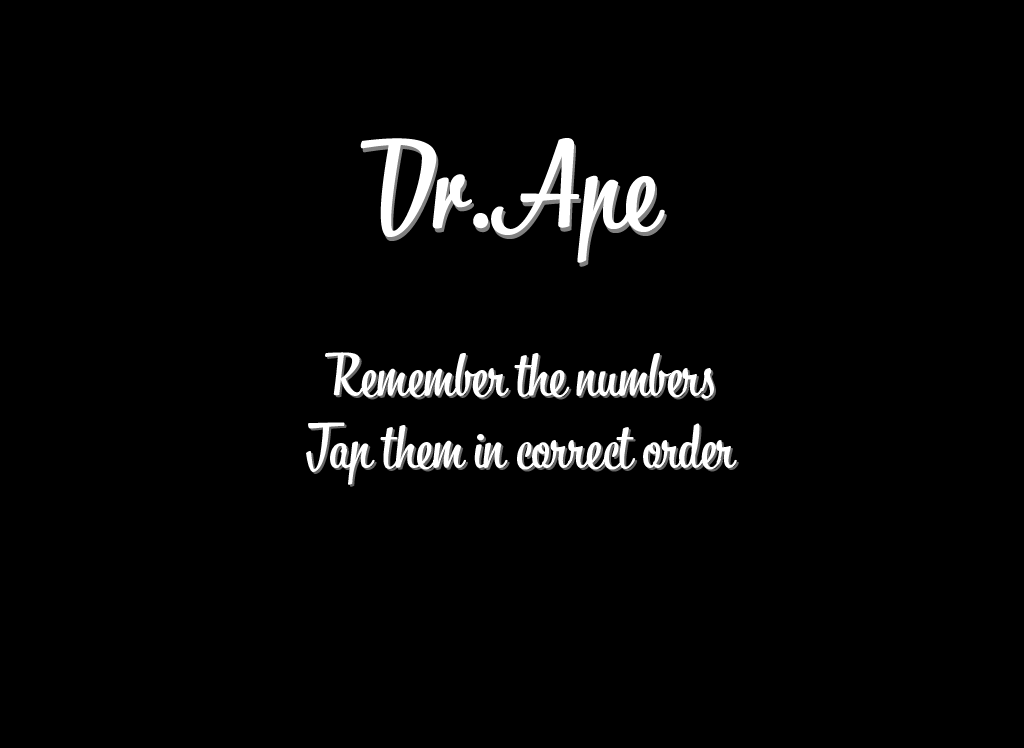
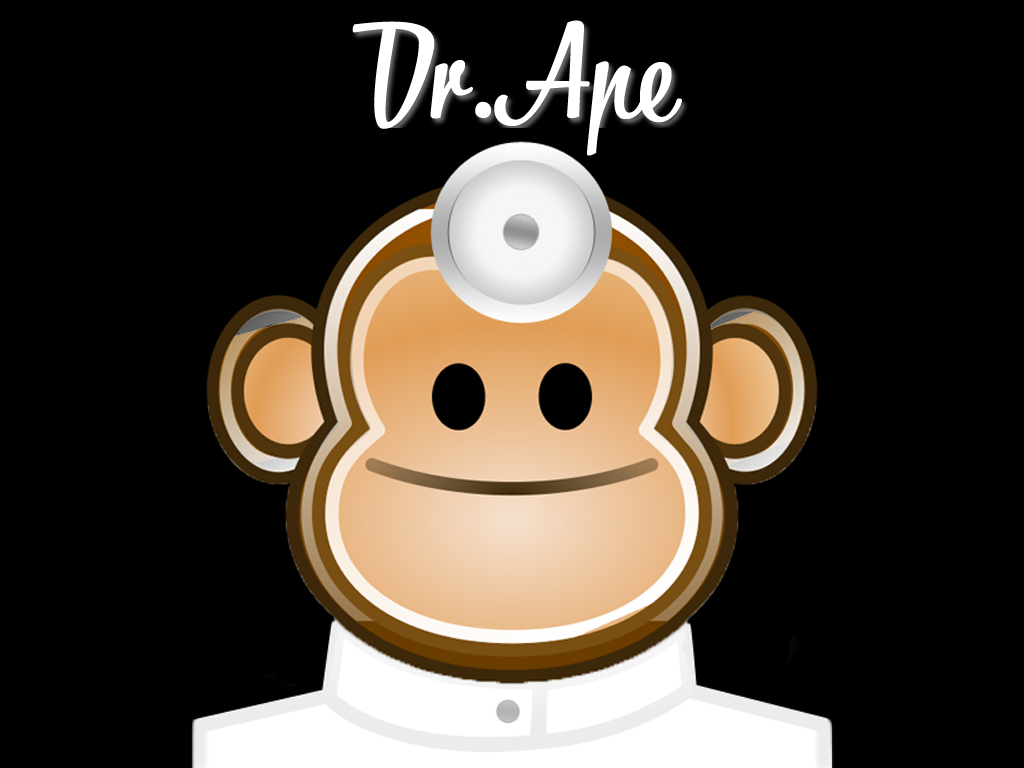
Fixes launch images and resets campaign when game mode changed.

diff --git a/BeatTheMonkey/BeatTheMonkeyViewController.m b/BeatTheMonkey/BeatTheMonkeyViewController.m
@@ -152,7 +152,7 @@
     self.game.delegate = self;
     
     self.scoreLabel = [[UILabel alloc] init];
-    self.scoreLabel.textColor = [UIColor whiteColor];
+    self.scoreLabel.textColor = [UIColor colorWithPatternImage:[UIImage imageNamed:@"bg_tile.png"]];
     self.scoreLabel.textAlignment = UITextAlignmentCenter;
     self.scoreLabel.backgroundColor = [UIColor clearColor];
     self.scoreLabel.hidden = YES;
@@ -161,6 +161,7 @@
     
     self.startGameButton = [UIButton buttonWithType:UIButtonTypeCustom];
     self.startGameButton.backgroundColor = [UIColor clearColor];
+    [self.startGameButton setTitleColor:[UIColor colorWithPatternImage:[UIImage imageNamed:@"bg_tile.png"]] forState:UIControlStateNormal];
     [self.startGameButton addTarget:self action:@selector(newGameButtonPressed:) forControlEvents:UIControlEventTouchUpInside];
     self.startGameButton.hidden = YES;
     [self.view addSubview:self.startGameButton];

diff --git a/BeatTheMonkey/BTMGame.m b/BeatTheMonkey/BTMGame.m
@@ -279,7 +279,7 @@
 - (void)showMistakenTiles {
     for (BTMTile *tile in self.tiles) {
         [tile setTitle:[NSString stringWithFormat:@"%d", tile.tag] forState:UIControlStateNormal];
-        [tile setTitleColor:[UIColor blackColor] forState:UIControlStateNormal];
+        [tile setTitleColor:[UIColor colorWithPatternImage:[UIImage imageNamed:@"bg_screen.png"]] forState:UIControlStateNormal];
         if (tile.mistaken) {
             tile.backgroundColor = [UIColor colorWithPatternImage:[UIImage imageNamed:@"bg_tile_red.png"]];
         } else {

diff --git a/BeatTheMonkey/BTMTile.m b/BeatTheMonkey/BTMTile.m
@@ -18,7 +18,7 @@
     BTMTile *tile = [super buttonWithType:UIButtonTypeCustom];
     tile.frame = aFrame;
     tile.enabled = NO;
-    tile.titleLabel.textColor = [UIColor colorWithPatternImage:[UIImage imageNamed:@"bg_tile.png"]];
+    [tile setTitleColor:[UIColor colorWithPatternImage:[UIImage imageNamed:@"bg_tile.png"]] forState:UIControlStateNormal];
     tile.backgroundColor = [UIColor clearColor];
     tile.layer.cornerRadius = 3.0;
     tile.layer.masksToBounds = YES;

diff --git a/BeatTheMonkey/FlipSideViewController.m b/BeatTheMonkey/FlipSideViewController.m
@@ -61,6 +61,7 @@ gameModeDescriptionLabel = _gameModeDescriptionLabel,
 - (IBAction)gameModeChanged:(id)sender {
     [UD setInteger:self.gameModeControl.selectedSegmentIndex forKey:@"GameMode"];
     [UD synchronize];
+    [self.game resetCampaign];
     self.changed = YES;
     [self showHideTilesCount];
 }

diff --git a/BeatTheMonkey/Utils.h b/BeatTheMonkey/Utils.h
@@ -12,7 +12,7 @@
 #define UD [NSUserDefaults standardUserDefaults]
 #define BTM_DEBUG 1
 #define GAME_MODE 0
-#define TILES_COUNT 3
+#define TILES_COUNT 4
 #define TILES_COUNT_MIN 4
 #define TILES_COUNT_MAX 8
 #define TILES_X 8
